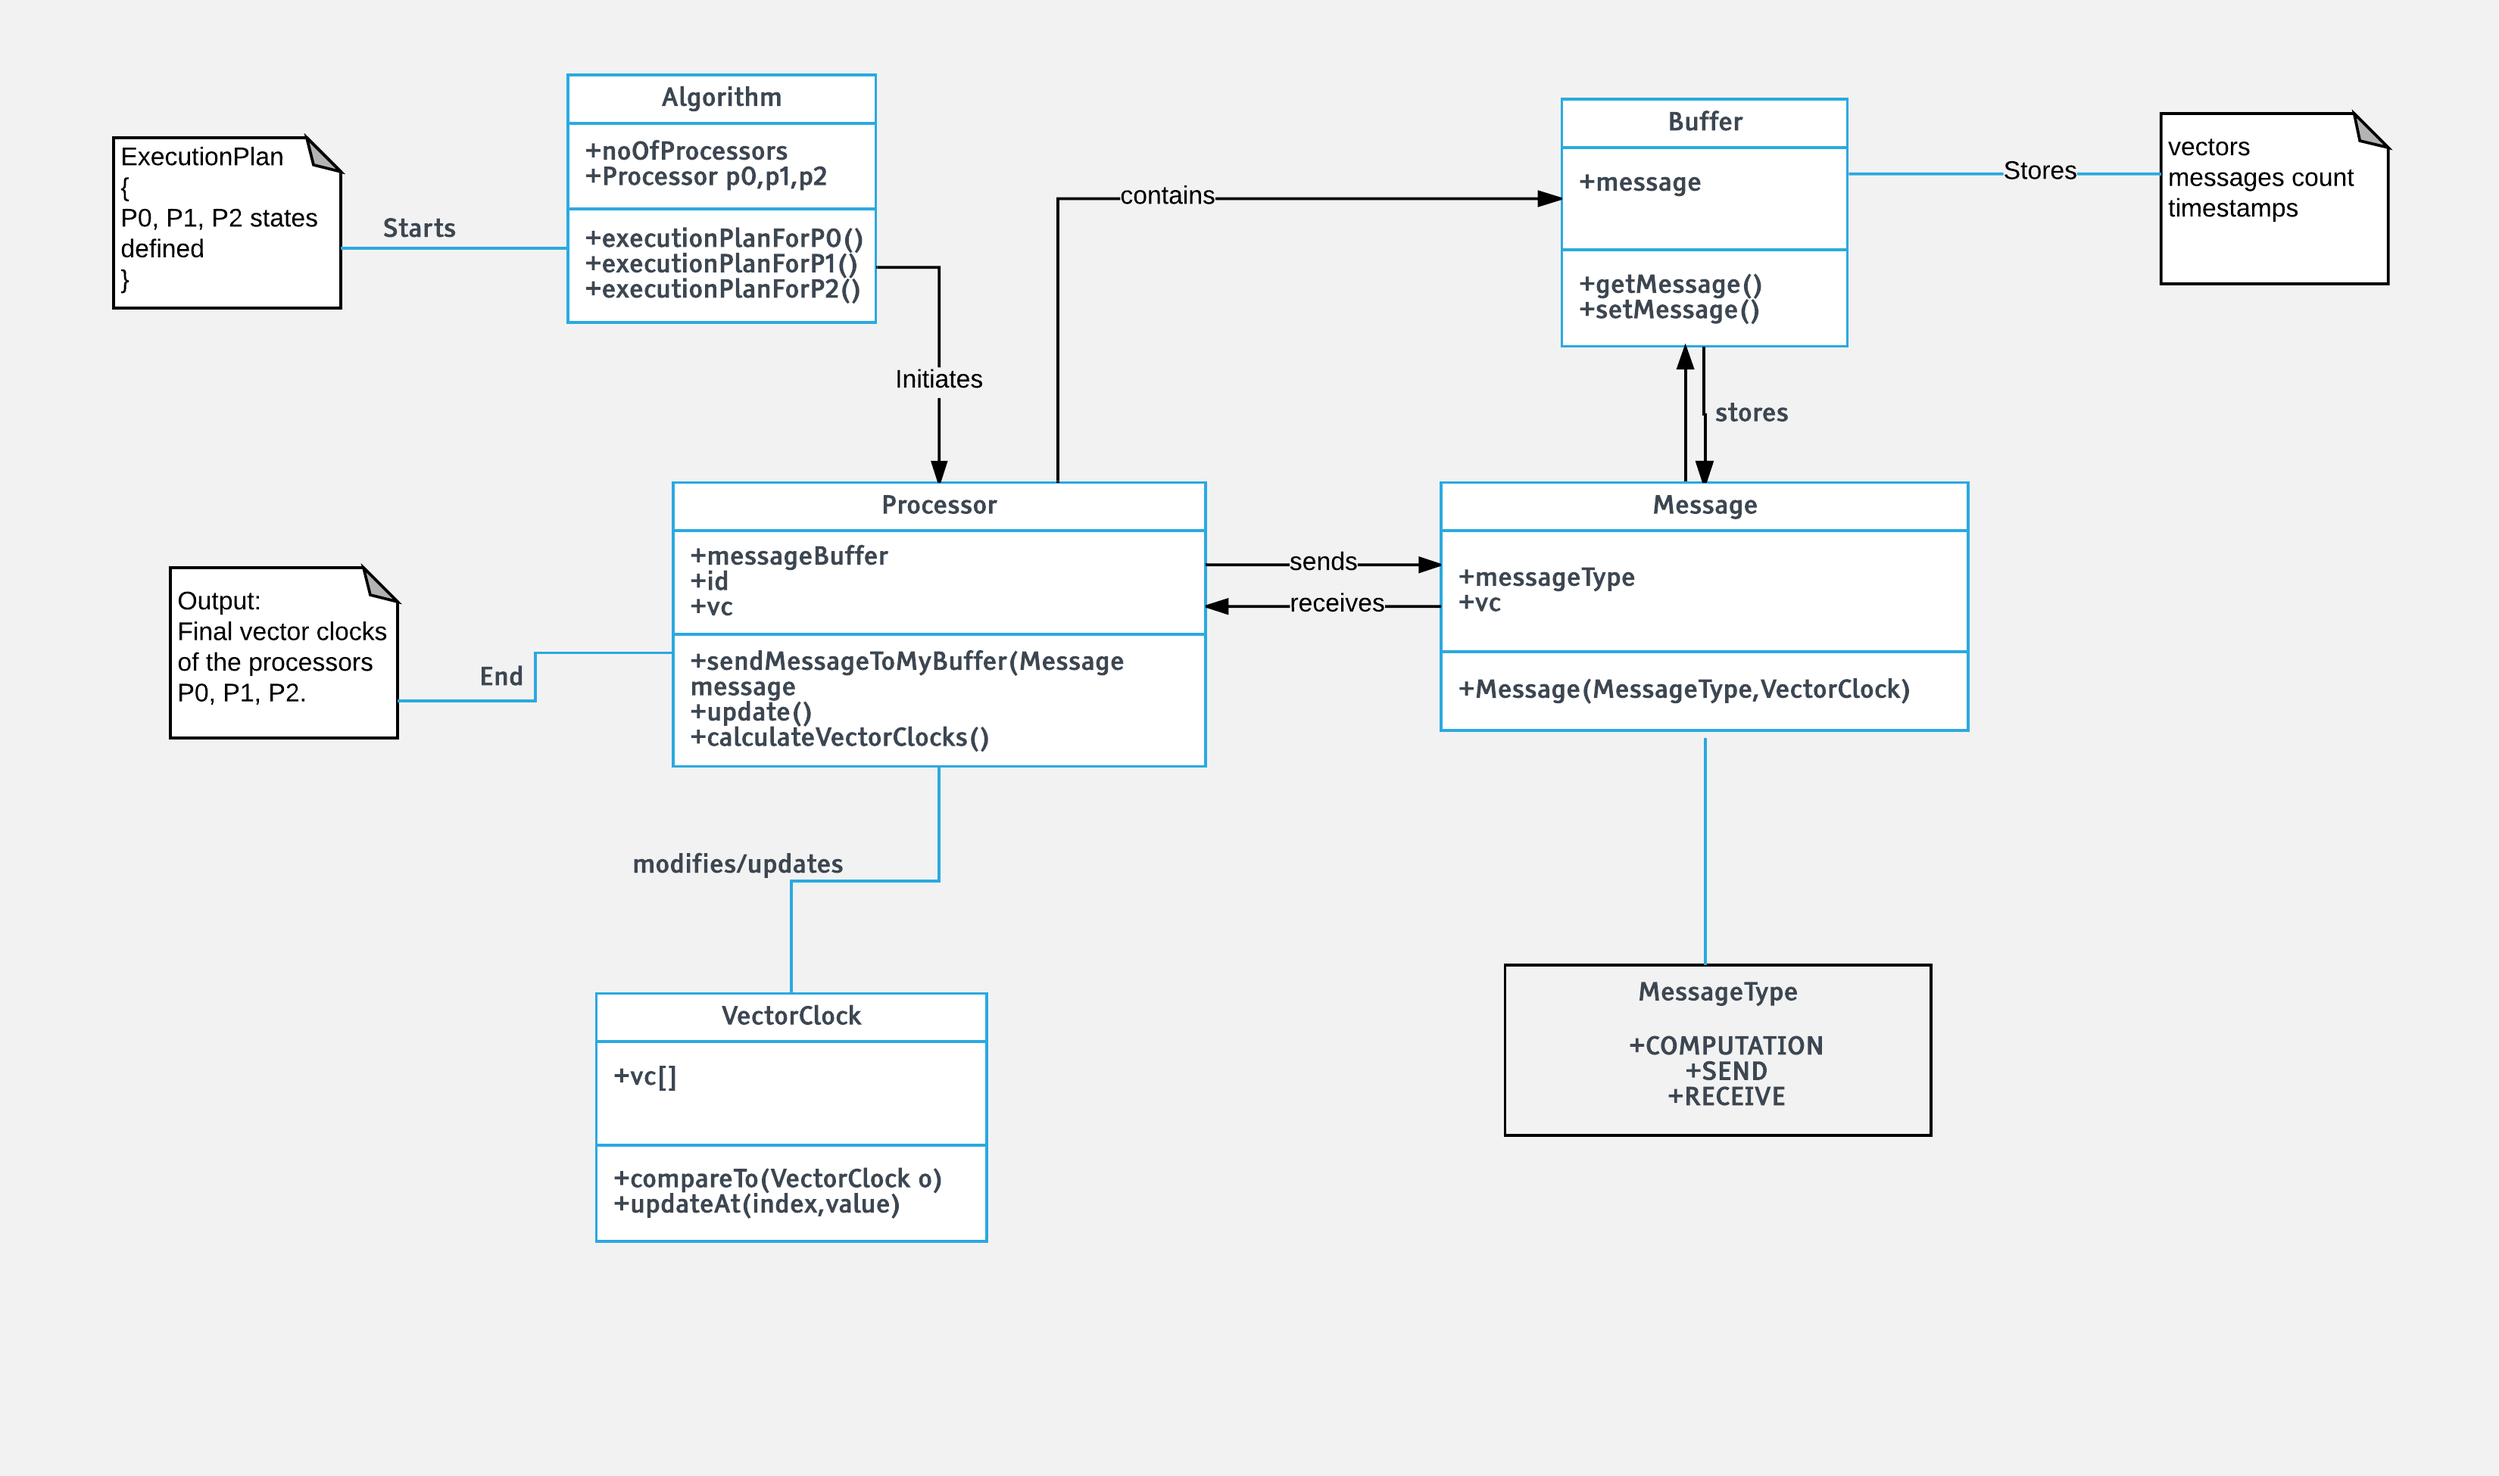
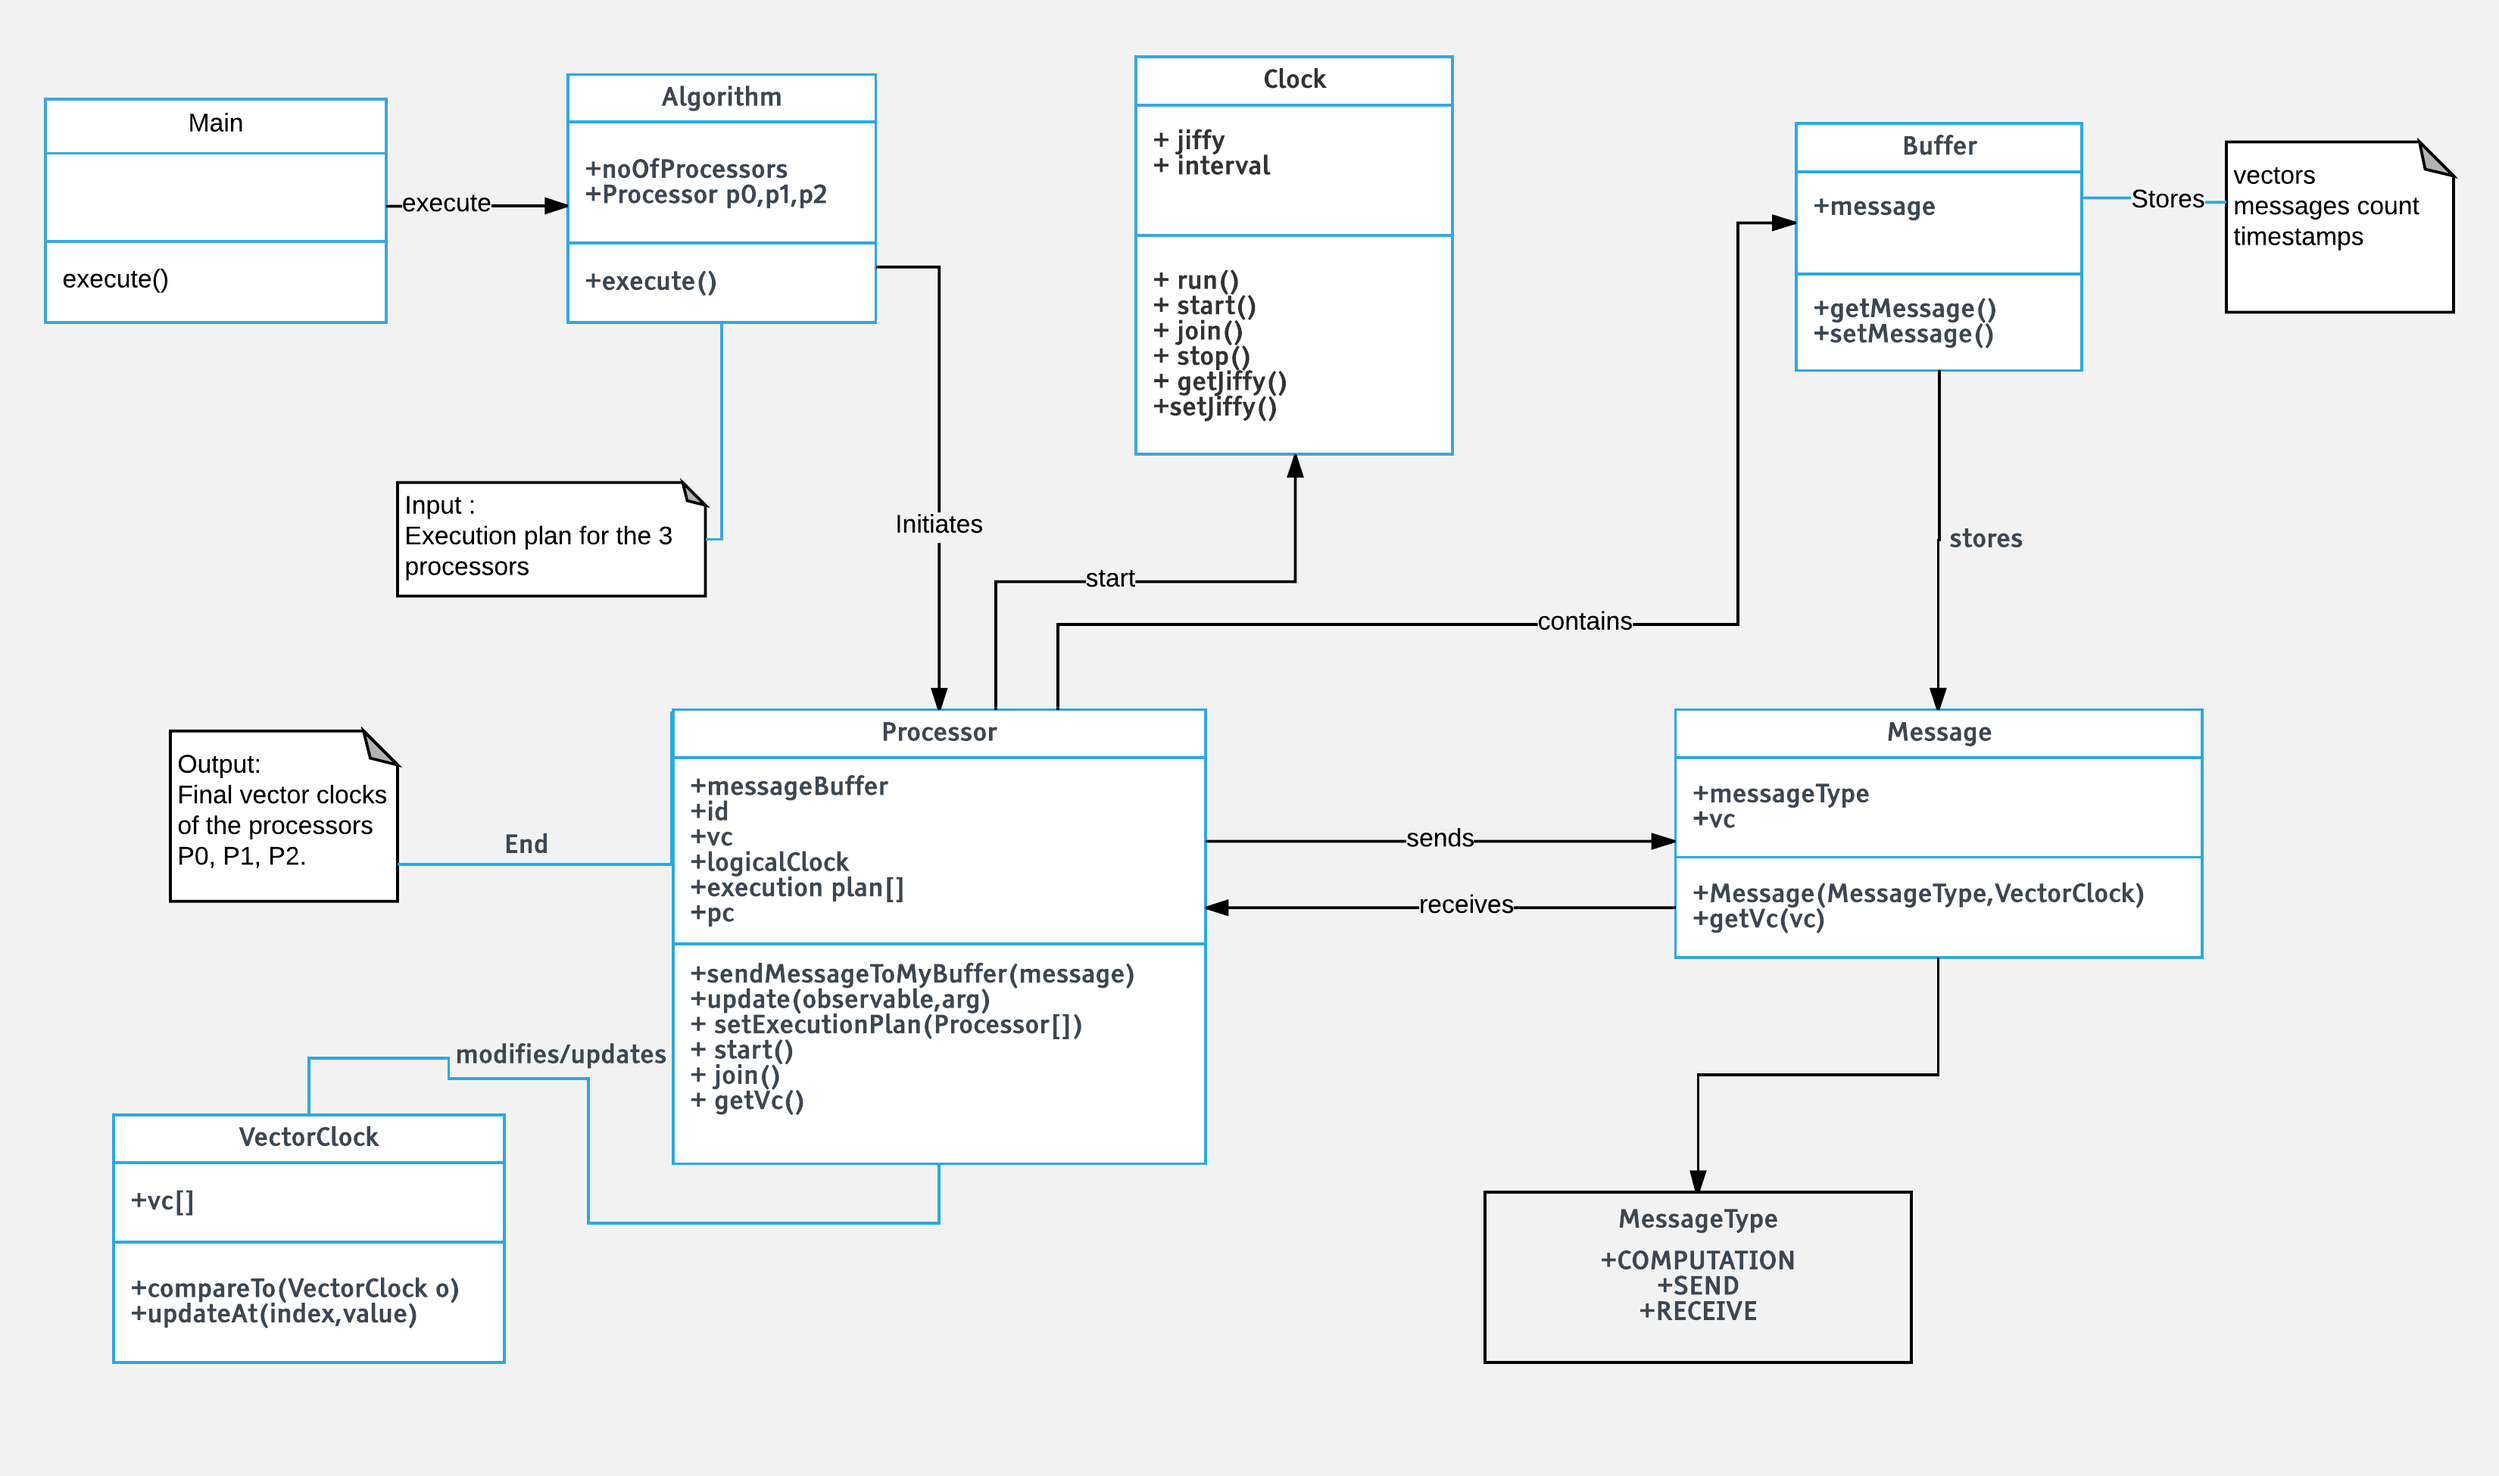
cs249: minor fixes

diff --git a/Homework 5/README.md b/Homework 5/README.md
@@ -1,36 +1,76 @@
-UML for Vector-clock computations:
+Vector Clock Simulation:
 ===================================
-This is aUML diagram of vector clocks of processors.
+This is an implementation simulating the calculation of Vector Clocks
 
 Input:
 ------
-The events in the executionPlan() methods.
+3 types of events - SEND,RECEIVE and COMPUTATION for the 3 processors P0,P1,P2. 
+Initially the vector clocks of all the processors will be initialized to 0.
 
 Output:
 -------
-The final computed vector clocks of the processors.
+The final vector clocks of the 3 processors.
 
-Procedure:
+Implementation:
 ---------------
-* There are 3 processors present P0,P1 and P2 each maintaining a vector clock 
-and a message buffer. 
-* Each processor can have 3 types of events executing, SEND, RECEIVE and 
-COMPUTE. Depending on the type of event, the vector clock will be updated.
-* On a compute event, the vector clock of the processor will be incremented by 
-1.
-* On a send event, the processor will increment its vector clock and send it to 
-the receiver.
-* On a receive event, the processor will increment its own vector clock and 
-take the maximum value of vector clocks of other processors. 
-* Algorithm class initializes the Processors P0,P1 and P2 and calls the 
-executionPlan() method for each processor.
-* The executionPlan() method will call the send, receive and compute events as 
-input given by the user.
-* Each Processor maintains a vector clock. Depending on the type of 
-message(event), the vector clock will be updated. The different events occur 
-concurrently in all the processors.
-* Once all the events are completed, the final vector clocks in each processor 
-is the final output.
+* The calculation for vector clocks of the processors is implemented using Java
+classes
+* There are 3 processors present - P0,P1,P2
+* Each processor has an id (For processor P0-0, P1-1 and P2-2), and a time 
+interval after which it starts execution.
+* Each processor also has a vector clock which is initially set to 0
+* There is an execution plan defined for each processors according to which the
+3 types of events - SEND,RECEIVE and COMPUTE will execute in the processor.
+* Since all the processors need to execute concurrently,threads are implemented
+and each processor starts execution after waiting for an interval of time. Thus
+all the events can stay synchronized.
+* The vector clocks of each processor will be updated accordingly.
+* The final vector clock of the processors after all he events have finished 
+execution is the output.
+
+
+Classes:
+--------
+* Processor.java
+* Buffer.java
+* Main.java
+* Message.java
+* MessageType.java
+* Clock.java
+* VectorClock.java
+* Algorithm.java
+
+
+Question and Answers:
+----------------------
+
+* Interactions
+-> Interaction between the processors by 3 events namely COMPUTATION, SEND and 
+RECEIVE.
+
+* What we need to store?
+-> Vector clock of every processor after any event. 
+
+* What needs to change?
+-> The vector clocks of each processor will change upon receiving the COMPUTE, 
+SEND or RECEIVE messages.
+
+* What will be the input?
+-> The processors and their execution plans will be the input of the algorithm.
+The execution plan of each processor will have the events that will take place
+individually for each process as per the message type. 
+
+* What will be the output?
+-> The updated vector clocks of each processor after all the events have 
+taken place will be the final output of the program. 
+
+* Decide which event happened Before, which event is concurrent
+-> The timeline of each event explaining its occurence with respect to other 
+events could be found out by comparing their vector clocks. The vector clocks
+of each processor at a particular instance(event) would help help us compare as
+to which event took place before the other, or whether the events were 
+concurrent.
+
 
 Authors:
 --------
@@ -38,5 +78,3 @@ Authors:
 * Shishir Kulkarni
 * Sphoorti Poojary
 * Shubham Pachpute
-
-
